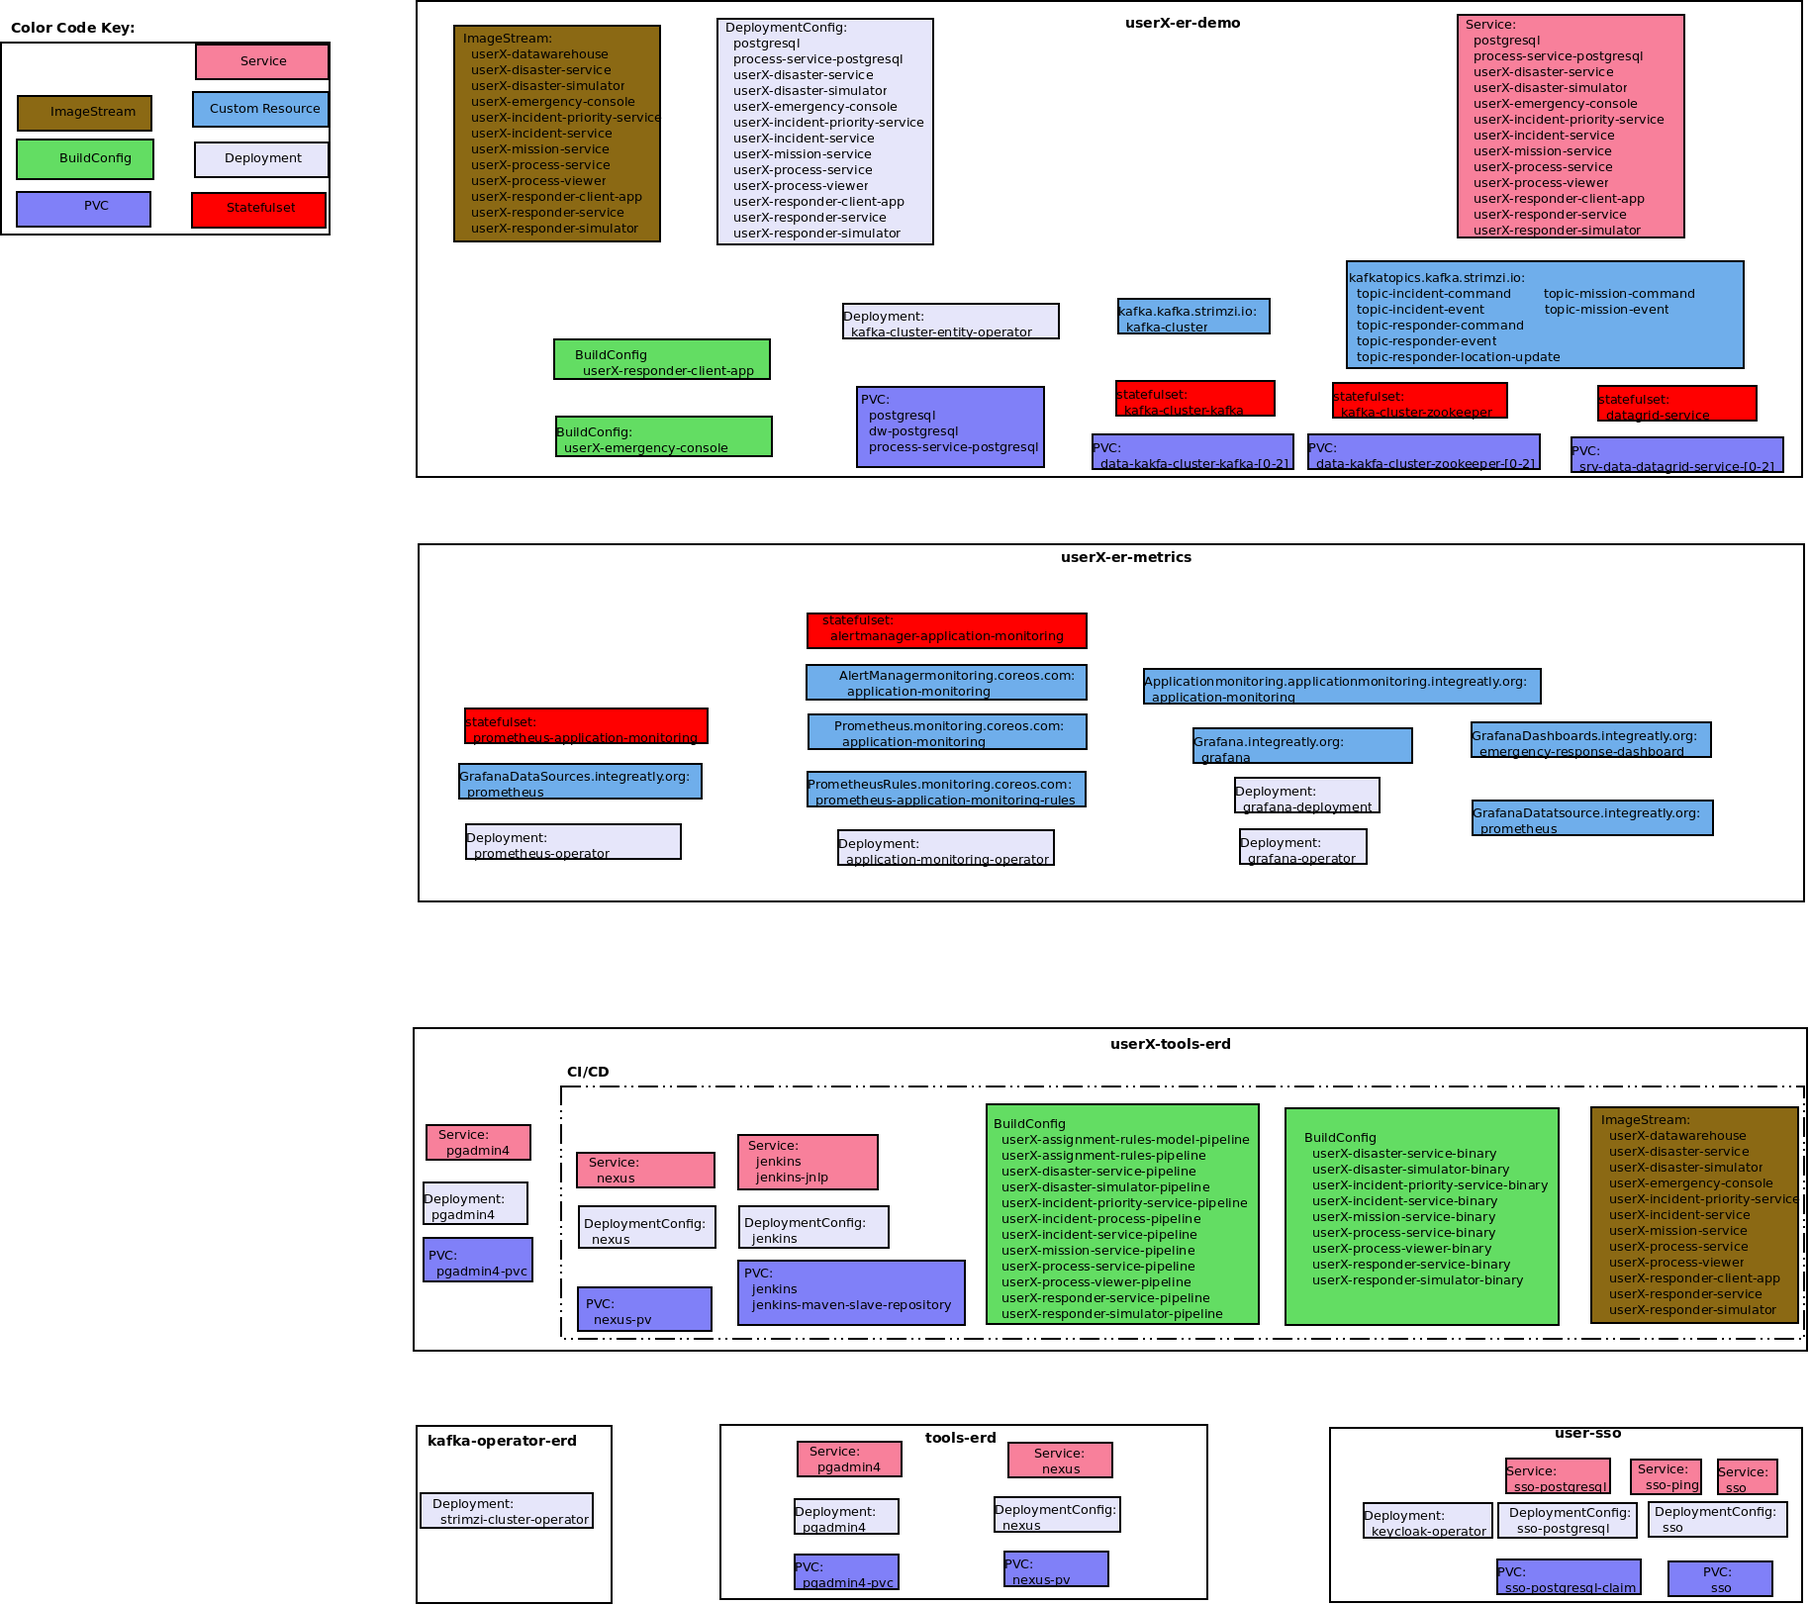
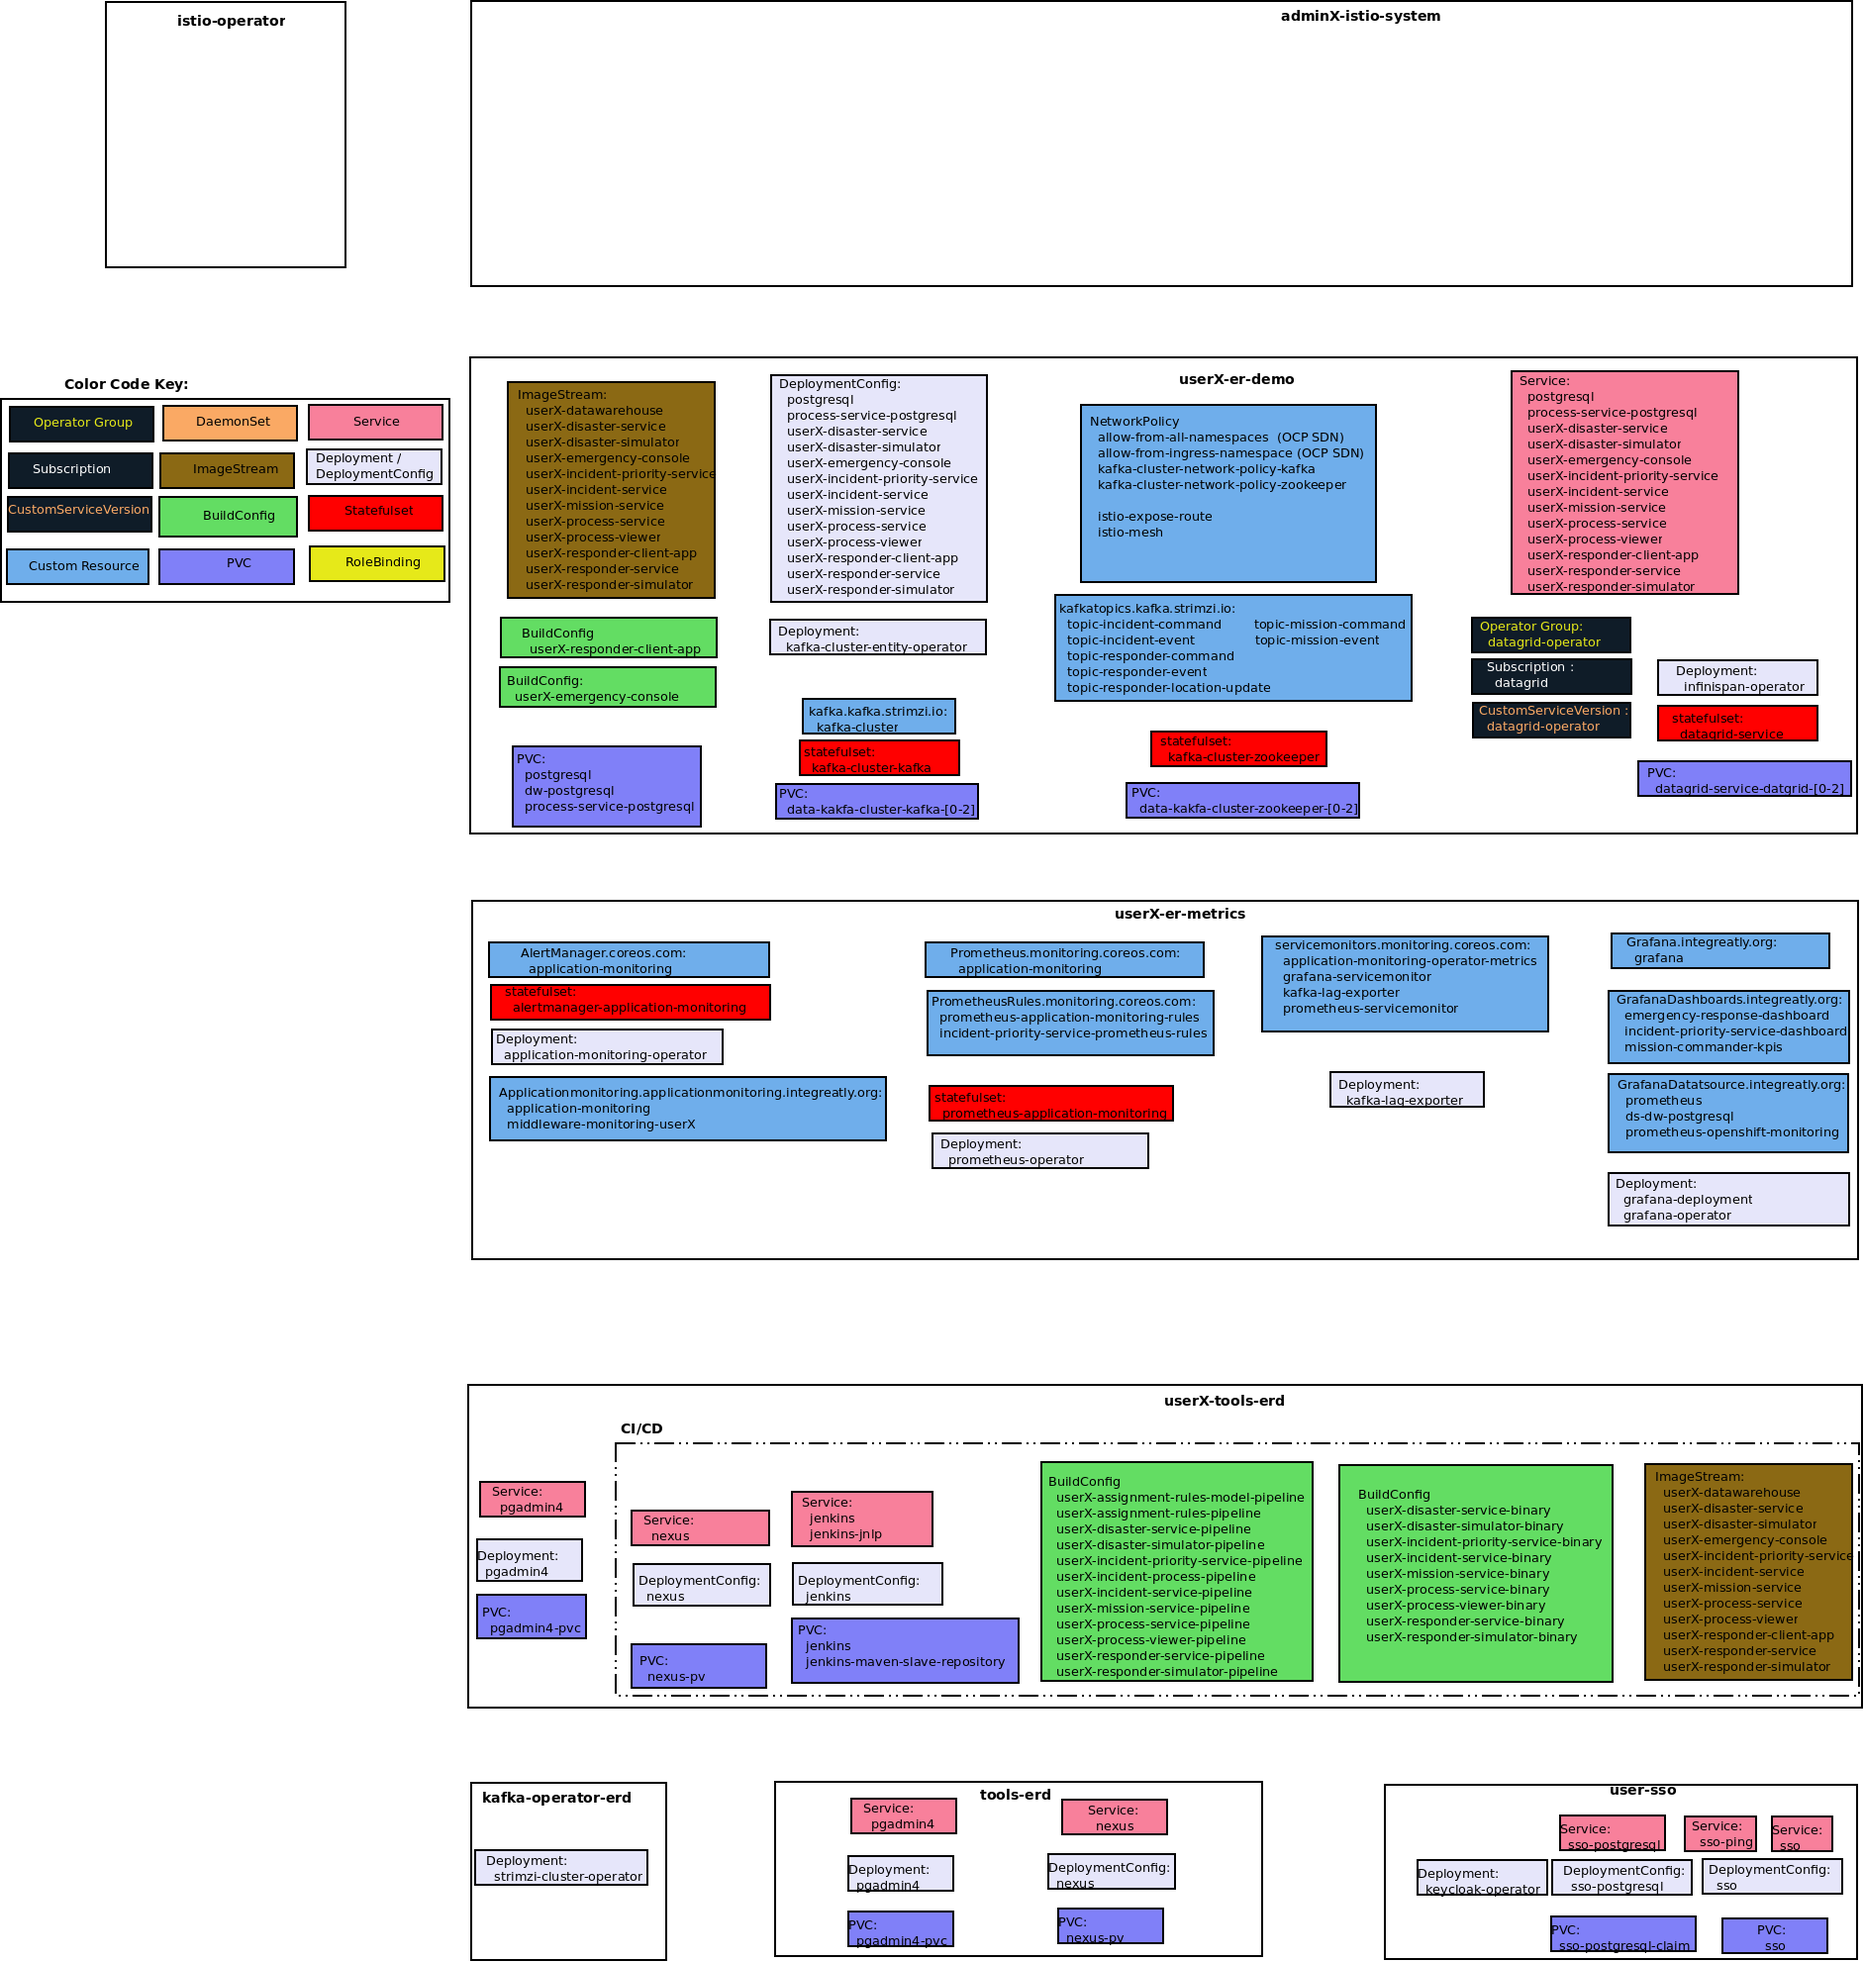
index.md:  Link to Power of Communities video now on youtube
project_topology diagrams:  Updated to reflect JDG8 operator

diff --git a/index.md b/index.md
@@ -1,7 +1,7 @@
 ---
 layout: page
 ---
-The Emergency Response application is a reference demo that showcases the [Power of Communities](https://www.brighttalk.com/webcast/16623/398059 ).
+The Emergency Response application is a reference demo that showcases the [Power of Communities]( https://youtu.be/rVtsGZIFw4s ).
 In particular, it clarifies how the accelerating pace of open-source innovation can be harnessed today in a supported, enterprise manner for your line of business in a hybrid-cloud environment.  Mission critical applications that your business relies on can be built and run on open-source innovation *TODAY*.
 
 The theme for the Emergency Response demo application is inspired by the [volunteer community collaboration](https://en.wikipedia.org/wiki/Cajun_Navy) that occured in 2017 during the aftermath of Hurricane Harvey.  A simlar community-driven, collaborative approach was used to develop the demo application and maintain it going forward.
